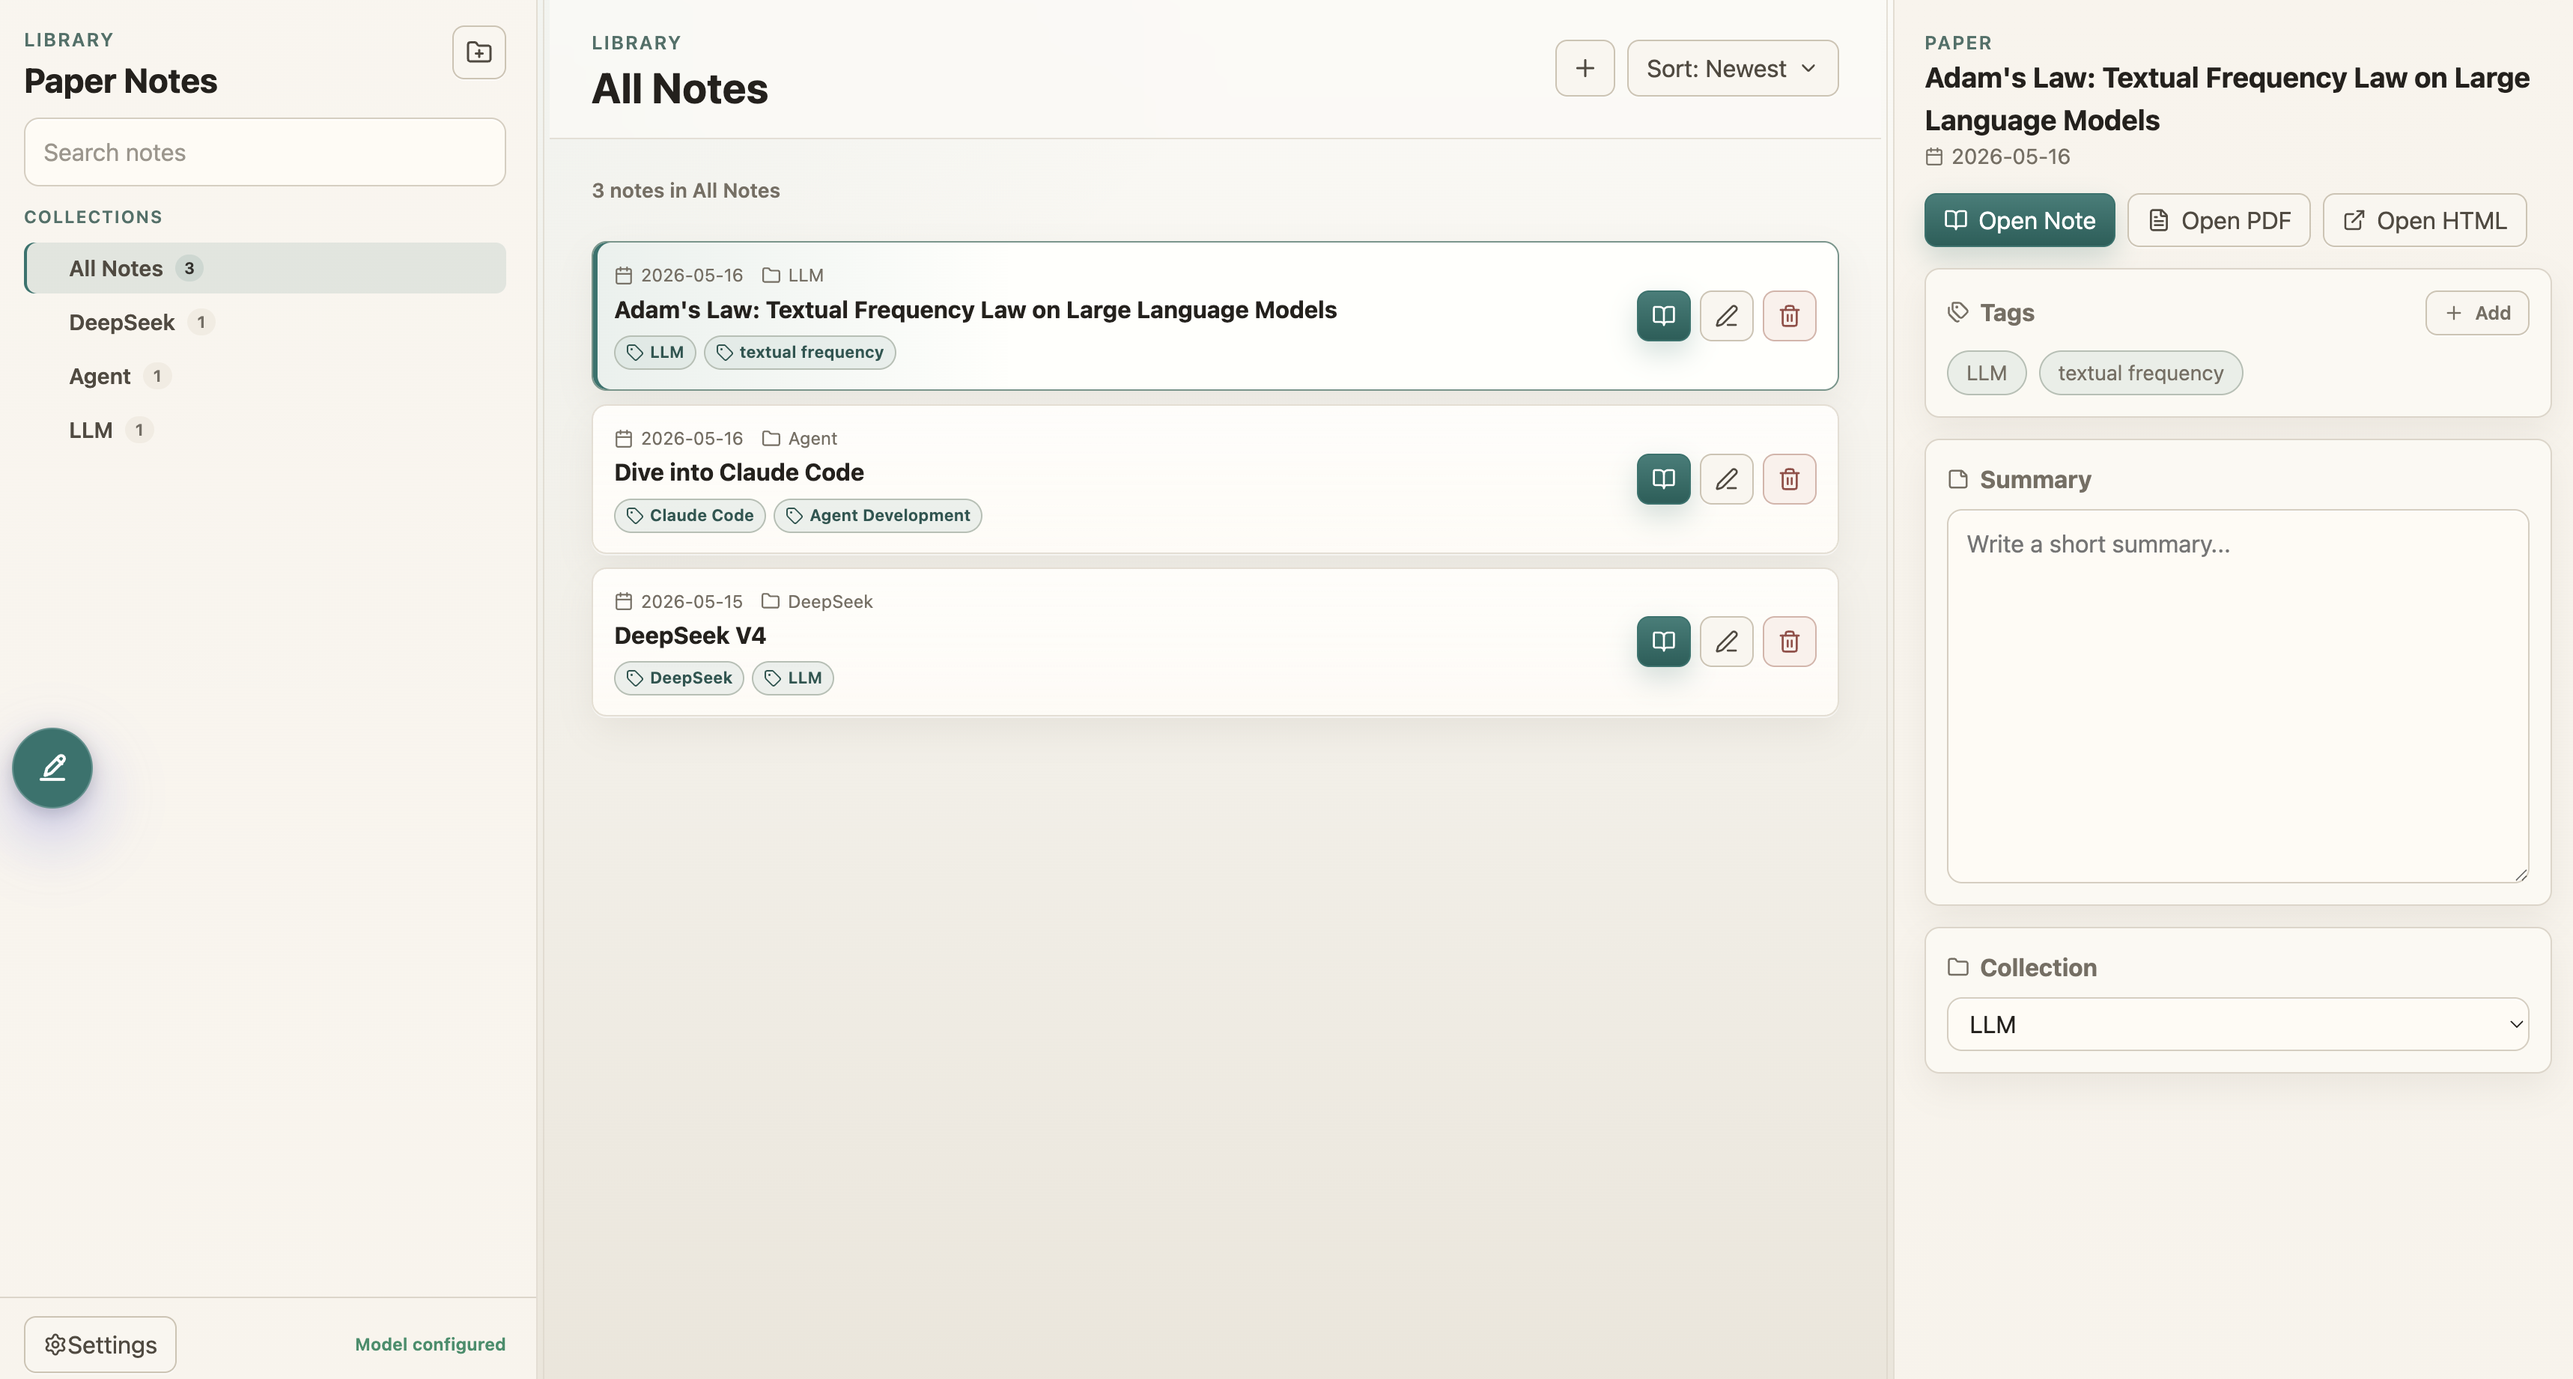
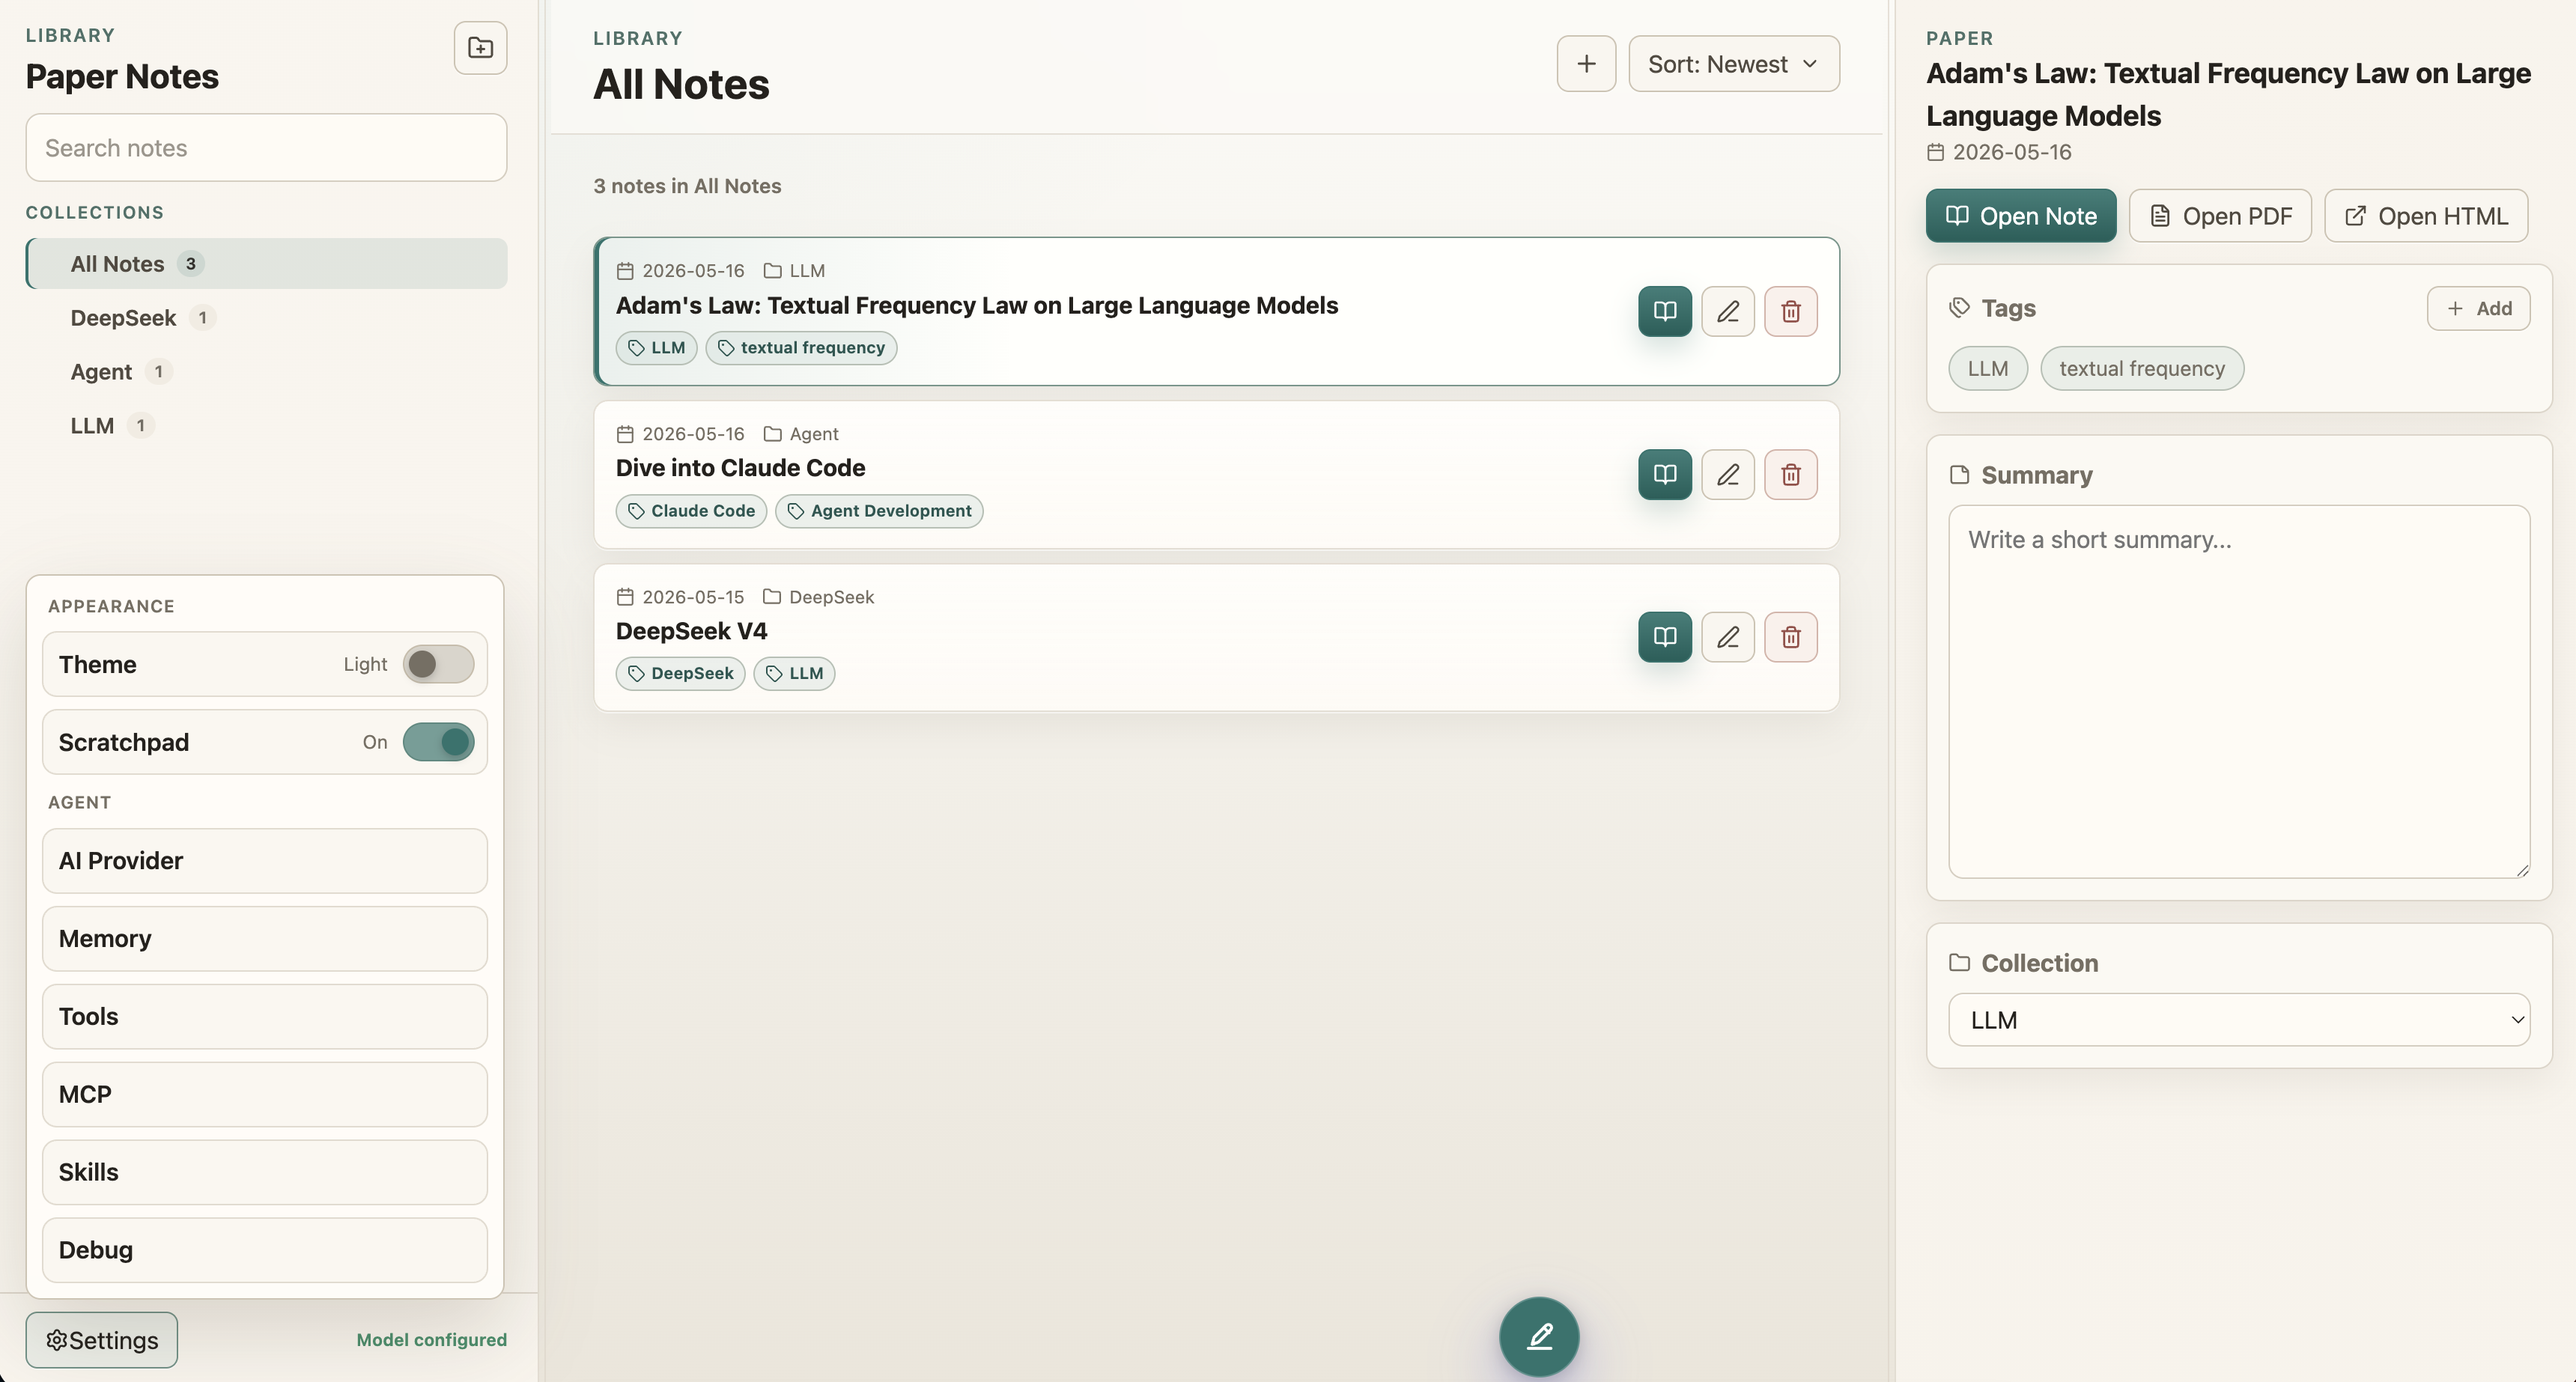
Improve reader slash commands

diff --git a/tests/e2e/paper-notes-smoke.spec.js b/tests/e2e/paper-notes-smoke.spec.js
@@ -2194,6 +2194,7 @@ test("reader ask send button cancels a pending request", async ({ page }) => {
   await expect(page.locator("[data-slash-command='new']")).toBeEnabled();
   await expect(page.locator("[data-slash-command='compact']")).toBeDisabled();
   await expect(page.locator("[data-slash-command='compact']")).toContainText("Wait for current answer to finish");
+  await expect(page.locator("[data-slash-command='stop']")).toBeEnabled();
 
   await askInput.fill("draft next question");
   await askInput.press("Enter");
@@ -3044,11 +3045,12 @@ test("reader slash commands show icons filter and start a new chat", async ({ pa
 
   await askInput.fill("/");
   await expect(page.locator("#readerSlashCommandMenu")).toBeVisible();
-  await expect(page.locator(".slash-command-item")).toHaveCount(2);
-  await expect(page.locator(".slash-command-icon")).toHaveCount(2);
+  await expect(page.locator(".slash-command-item")).toHaveCount(3);
+  await expect(page.locator(".slash-command-icon")).toHaveCount(3);
   await expect(page.locator(".slash-command-item").nth(0)).toContainText("New chat");
   await expect(page.locator(".slash-command-item").nth(0)).toContainText("Start a fresh Ask session");
   await expect(page.locator(".slash-command-item").nth(1)).toContainText("Compact");
+  await expect(page.locator(".slash-command-item").nth(2)).toContainText("Stop");
 
   await askInput.fill("/ne");
   await expect(page.locator(".slash-command-item")).toHaveCount(1);
@@ -3127,6 +3129,30 @@ test("reader slash compact is disabled without a session and executable with one
   await expect(page.locator("#readerSlashCommandMenu")).toBeHidden();
   await expect(page.locator(".ask-message-divider")).toContainText("Context compacted");
   expect(compressRequest).toMatchObject({ sessionId: "slash-compact-session", noteId: E2E_NOTE_ID });
+});
+
+test("reader slash stop cancels a pending request", async ({ page }) => {
+  await openFixtureReader(page);
+  await showAskPane(page);
+  let releaseStream;
+  const streamGate = new Promise((resolve) => {
+    releaseStream = resolve;
+  });
+  const agentMocks = await installAgentMocks(page, { streamGate });
+
+  const askInput = page.locator("#readerChatInput");
+  await askInput.fill("keep running");
+  await page.locator("#sendReaderChat").click();
+  await expect(page.locator("#sendReaderChat")).toHaveAttribute("aria-label", "Cancel");
+
+  await askInput.fill("/stop");
+  await expect(page.locator("#readerSlashCommandMenu")).toBeVisible();
+  await expect(page.locator("[data-slash-command='stop']")).toBeEnabled();
+  await askInput.press("Enter");
+  await expect.poll(() => agentMocks.cancelRequests.length).toBe(1);
+  expect(agentMocks.cancelRequests[0]).toMatchObject({ reason: "reader_cancelled" });
+  releaseStream();
+  await expect(page.locator("#sendReaderChat")).toHaveAttribute("aria-label", "Send");
 });
 
 test("reader attachment uploads show tray progress and can be removed", async ({ page }) => {

diff --git a/src/ui/frontend/scripts/reader/chat/slash_commands.js b/src/ui/frontend/scripts/reader/chat/slash_commands.js
@@ -14,6 +14,13 @@
       description: "Summarize this session's context",
       icon: "layers-3",
     },
+    {
+      id: "stop",
+      trigger: "/stop",
+      title: "Stop",
+      description: "Cancel the current answer",
+      icon: "circle-stop",
+    },
   ];
 
   const state = {
@@ -31,10 +38,20 @@
   }
 
   function slashCommandStatus(command) {
-    if (command.id !== "compact") return { disabled: false, description: command.description };
-    if (isChatSessionPending()) return { disabled: true, description: "Wait for current answer to finish" };
-    if (!getChatSessionId()) return { disabled: true, description: "No active session yet" };
-    if (readerState.contextCompacting) return { disabled: true, description: "Compacting already in progress" };
+    if (command.id === "compact") {
+      if (isChatSessionPending()) return { disabled: true, description: "Wait for current answer to finish" };
+      if (!getChatSessionId()) return { disabled: true, description: "No active session yet" };
+      if (readerState.contextCompacting) return { disabled: true, description: "Compacting already in progress" };
+      return { disabled: false, description: command.description };
+    }
+    if (command.id === "stop") {
+      if (!isChatSessionPending()) return { disabled: true, description: "No answer is running" };
+      const progress = typeof currentChatProgress === "function" ? currentChatProgress() : null;
+      if (normalizeText(progress?.status) === "cancelling") {
+        return { disabled: true, description: "Cancellation already in progress" };
+      }
+      return { disabled: false, description: command.description };
+    }
     return { disabled: false, description: command.description };
   }
 
@@ -155,6 +172,8 @@
       await createReaderChatSession();
     } else if (command.id === "compact") {
       await compactReaderContext();
+    } else if (command.id === "stop") {
+      await cancelReaderChatRequest();
     }
     elements.readerChatInput?.focus();
   }
@@ -191,7 +210,7 @@
     if (event.key === "Enter" && !event.shiftKey && !event.metaKey && !event.ctrlKey && !event.altKey && !event.isComposing) {
       event.preventDefault();
       event.stopImmediatePropagation();
-      const selected = state.items[state.activeIndex];
+      const selected = state.items[state.activeIndex] || state.items[firstEnabledSlashIndex(state.items)];
       if (selected && !selected.disabled) executeSlashCommand(selected.id);
     }
   }

diff --git a/src/ui/frontend/scripts/shared/icons.js b/src/ui/frontend/scripts/shared/icons.js
@@ -12,6 +12,7 @@
     "chevron-left",
     "chevron-right",
     "circle-help",
+    "circle-stop",
     "clipboard-list",
     "copy",
     "download",
